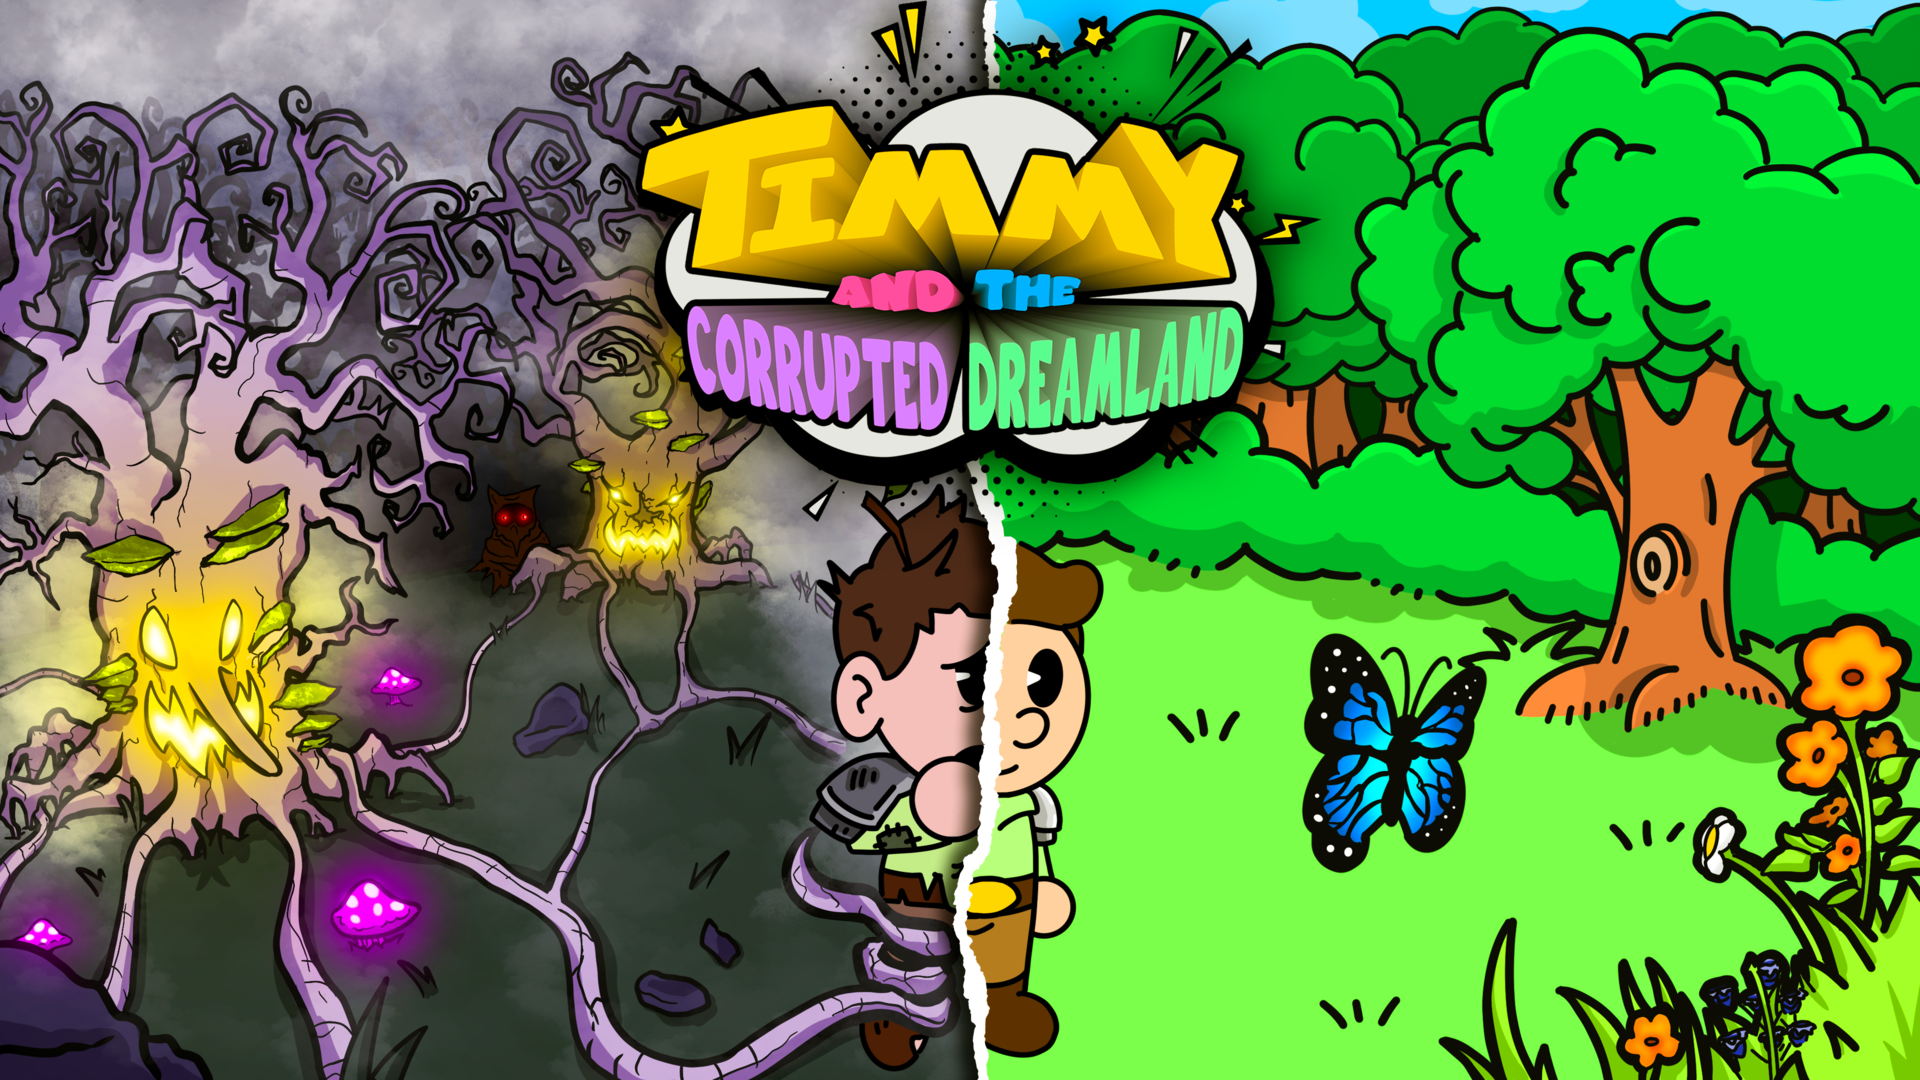
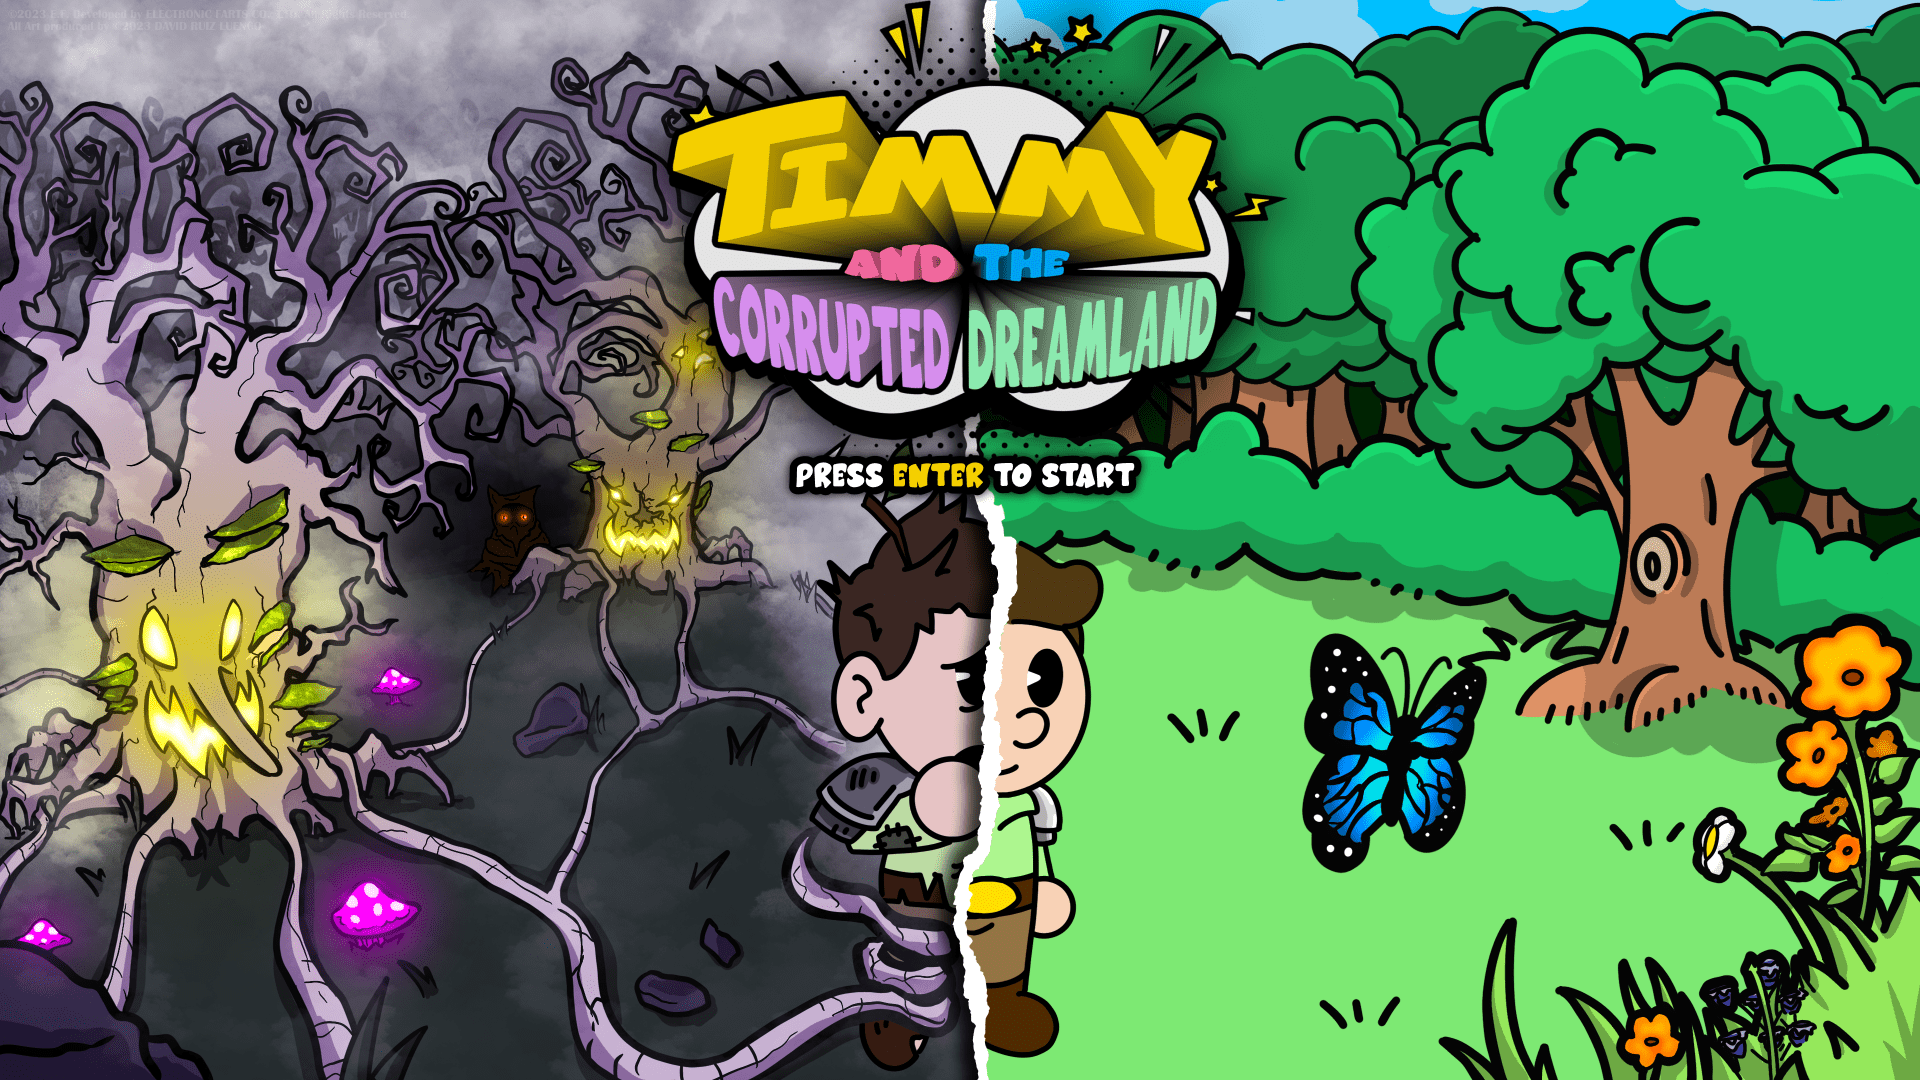
better Main Menu

diff --git a/Game/Source/UIModule.cpp b/Game/Source/UIModule.cpp
@@ -41,12 +41,12 @@ bool UIModule::Start()
 	app->win->GetWindowSize(w, h);
 
 
-	mainmenu_play_button = (GuiButton*)app->guiManager->CreateGuiControl(GuiControlType::BUTTON, 1, "Play", { 920, 80, 120,30 }, this);
-	mainmenu_options_button = (GuiButton*)app->guiManager->CreateGuiControl(GuiControlType::BUTTON, 2, "Options", { 920, 115, 120,30 }, this);
-	mainmenu_credits_button = (GuiButton*)app->guiManager->CreateGuiControl(GuiControlType::BUTTON, 3, "Credits", { 920, 150, 120,30 }, this);
-	mainmenu_quit_button = (GuiButton*)app->guiManager->CreateGuiControl(GuiControlType::BUTTON, 4, "Quit", { 920, 185, 120, 30 }, this);
-	mainmenu_newGame_button = (GuiButton*)app->guiManager->CreateGuiControl(GuiControlType::BUTTON, 5, "New Game", { 920, 115, 120,30 }, this);
-	mainmenu_continueGame_button = (GuiButton*)app->guiManager->CreateGuiControl(GuiControlType::BUTTON, 6, "Continue", { 920, 150, 120,30 }, this);
+	mainmenu_play_button = (GuiButton*)app->guiManager->CreateGuiControl(GuiControlType::BUTTON, 1, "Play", { 920, 600, 120,30 }, this);
+	mainmenu_options_button = (GuiButton*)app->guiManager->CreateGuiControl(GuiControlType::BUTTON, 2, "Options", { 920, 640, 120,30 }, this);
+	mainmenu_credits_button = (GuiButton*)app->guiManager->CreateGuiControl(GuiControlType::BUTTON, 3, "Credits", { 920, 680, 120,30 }, this);
+	mainmenu_quit_button = (GuiButton*)app->guiManager->CreateGuiControl(GuiControlType::BUTTON, 4, "Quit", { 920, 720, 120, 30 }, this);
+	mainmenu_newGame_button = (GuiButton*)app->guiManager->CreateGuiControl(GuiControlType::BUTTON, 5, "New Game", { 920, 640, 120,30 }, this);
+	mainmenu_continueGame_button = (GuiButton*)app->guiManager->CreateGuiControl(GuiControlType::BUTTON, 6, "Continue", { 920, 680, 120,30 }, this);
 	mainmenu_return_button = (GuiButton*)app->guiManager->CreateGuiControl(GuiControlType::BUTTON, 7, "Return", { 920, 925, 120,30 }, this);
 
 	pausemenu_resume_button = (GuiButton*)app->guiManager->CreateGuiControl(GuiControlType::BUTTON, 20, "Resume", { 1620, 80, 120,30 }, this);
@@ -206,7 +206,7 @@ bool UIModule::OnGuiMouseClickEvent(GuiControl* control)
 		mainmenu_continueGame_button->state = GuiControlState::NONE;
 		mainmenu_newGame_button->state = GuiControlState::NONE;
 
-		app->sceneMainMenu->optionsOpen = true;
+		app->sceneMainMenu->creditsOpen = true;
 		break;
 		// When quit pressed, quit the game
 	case 4:
@@ -238,7 +238,7 @@ bool UIModule::OnGuiMouseClickEvent(GuiControl* control)
 		mainmenu_options_button->state = GuiControlState::NORMAL;
 		mainmenu_quit_button->state = GuiControlState::NORMAL;
 
-		app->sceneMainMenu->optionsOpen = false;
+		app->sceneMainMenu->creditsOpen = false;
 		break;
 	}
 

diff --git a/Game/Source/SceneMainMenu.cpp b/Game/Source/SceneMainMenu.cpp
@@ -32,6 +32,7 @@ bool SceneMainMenu::Awake(pugi::xml_node& config)
 bool SceneMainMenu::Start()
 {	
 	mainMenu_image = app->tex->Load("Assets/UI/A_MainMenuBackground_SceneMainMenu.png");
+	mainMenuRipped_image = app->tex->Load("Assets/UI/A_MainMenuRipped_SceneManager.png");
 	credits_image = app->tex->Load("Assets/UI/A_Credits_MainMenu.png");
 
 	w = app->win->width;
@@ -41,11 +42,12 @@ bool SceneMainMenu::Start()
 	app->render->camera.y = 0;
 
 	// Tell to UIModule which currentMenuType
-	app->uiModule->currentMenuType = MAIN;
+	app->uiModule->currentMenuType = DISABLED;
 	// Call this function only when buttons change
 	app->uiModule->ChangeButtonState(app->uiModule->currentMenuType);
 
-	optionsOpen = false;
+	creditsOpen = false;
+	returnPressed = false;
 
 	return true;
 }
@@ -60,6 +62,18 @@ bool SceneMainMenu::PreUpdate()
 bool SceneMainMenu::Update(float dt)
 {
 
+	if (app->input->GetKey(SDL_SCANCODE_RETURN) == KEY_DOWN)
+	{
+		// Tell to UIModule which currentMenuType
+		app->uiModule->currentMenuType = MAIN;
+		// Call this function only when buttons change
+		app->uiModule->ChangeButtonState(app->uiModule->currentMenuType);
+
+		// Add cool audio
+		app->audio->PlayFx(app->guiManager->pressedFxId);
+
+		returnPressed = true;
+	}
 
 	return true;
 }
@@ -69,11 +83,18 @@ bool SceneMainMenu::PostUpdate()
 {
 	bool ret = true;
 
-	app->render->DrawTexture(mainMenu_image, 0, 0, NULL);
-
-	if (optionsOpen)
+	if (returnPressed)
 	{
-		app->render->DrawTexture(app->sceneMainMenu->credits_image, 0, 0, NULL);
+		app->render->DrawTexture(mainMenuRipped_image, 0, 0, NULL);
+	}
+	else
+	{
+		app->render->DrawTexture(mainMenu_image, 0, 0, NULL);
+	}
+
+	if (creditsOpen)
+	{
+		app->render->DrawTexture(credits_image, 0, 0, NULL);
 	}
 
 
@@ -91,6 +112,7 @@ bool SceneMainMenu::CleanUp()
 	LOG("Freeing sceneMainMenu");	
 	app->tex->UnLoad(mainMenu_image);
 	app->tex->UnLoad(credits_image);
+	app->tex->UnLoad(mainMenuRipped_image);
 
 	return true;
 }

diff --git a/Game/Source/SceneMainMenu.h b/Game/Source/SceneMainMenu.h
@@ -36,12 +36,16 @@ public:
 public:
 	
 	SDL_Texture* mainMenu_image;
+	SDL_Texture* mainMenuRipped_image;
 	SDL_Texture* credits_image;
 
-	bool optionsOpen;
+	bool creditsOpen;
 
 	// Window width and height
 	int w, h;
+
+	// Bool to transition between ripped and not in main menu
+	bool returnPressed;
 
 private:
 
